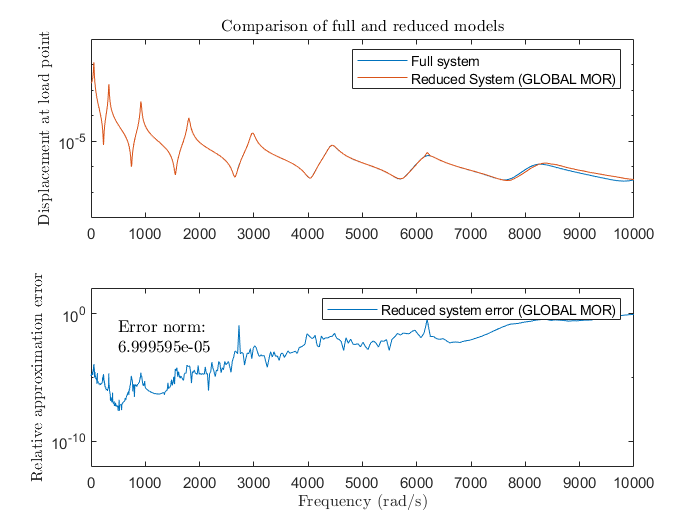
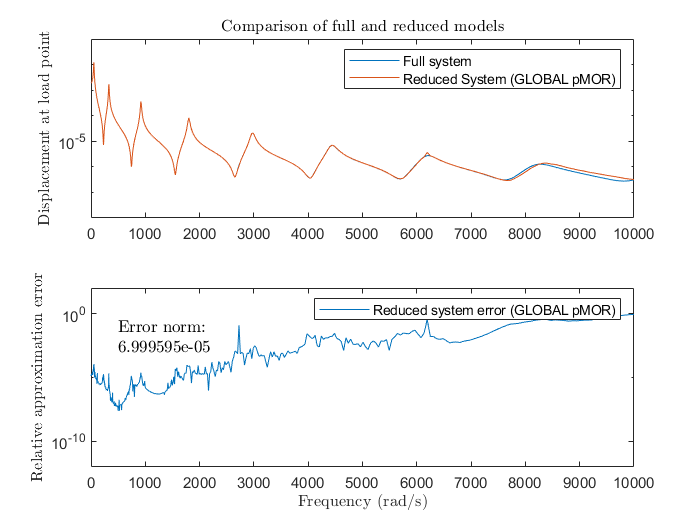
added more plots for changes in height

Changed region(s): [[0.57, 0.0914, 0.87, 0.1829], [0.54, 0.579, 0.87, 0.6095], [0.48, 0.0914, 0.51, 0.1524]]

diff --git a/beam_mor_pmor_H.m b/beam_mor_pmor_H.m
@@ -6,10 +6,11 @@ addpath('soirka')
 %% Inputs
 numSamples = 1000; % number of frequency samples
 numElements = 50; % number of beam FEM elements
-height = 0.01;
+height = 0.5;
+length_beam = 1;
 
 %Create beam model
-[M, D, K, f, C] = fem_beam(1,height,numElements);
+[M, D, K, f, C] = fem_beam(length_beam,height,numElements);
 
 %% Compute full solution
 
@@ -21,6 +22,8 @@ height = 0.01;
 s = 1i*logspace(0,4,numSamples); % frequency sample values
 %Careful with logspace, it might lead to very high values if used
 %incorrectly
+
+
 
 result_full = zeros(1,length(s));
 
@@ -36,7 +39,7 @@ fig = figure('Name','Frequency response using full solution');
 set(fig,'defaulttextinterpreter','latex')
 semilogy(abs(s),abs(result_full))
 xlim([0 10000])
-ylim([1e-8 1e-1])
+ylim([1e-12 1e-0])
 title('Frequency response using full solution')
 ylabel('Displacement at load point')
 xlabel('Frequency (rad/s)')
@@ -93,7 +96,7 @@ fig = figure('Name','Frequency response using SO-IRKA');
 set(fig,'defaulttextinterpreter','latex')
 semilogy(abs(s),abs(result_irka))
 xlim([0 10000])
-ylim([1e-8 1e-1])
+ylim([1e-12 1e-0])
 title('Frequency response using SO-IRKA')
 ylabel('Displacement at load point')
 xlabel('Frequency (rad/s)')
@@ -105,7 +108,7 @@ subplot(2,1,1)
 semilogy(abs(s),abs(result_full),...
     abs(s),abs(result_irka))
 xlim([0 10000])
-ylim([1e-8 1e-1])
+ylim([1e-12 1e-0])
 legend('Full system', 'Reduced System (SO-IRKA)')
 title('Comparison of full and reduced models')
 ylabel('Displacement at load point')
@@ -131,7 +134,9 @@ xlabel('Frequency (rad/s)')
 % Parameter is length, switch to height later
 
 %P = [0.214 0.5 0.75 0.9 1.25]; %original
-P = [0.214 0.3 0.4 0.5 0.6 0.75 0.9 1.25]; 
+%P = [0.214 0.3 0.4 0.5 0.6 0.75 0.9 1.25];
+
+P = [0.02 0.03 0.04 0.05 0.06 0.07 0.08 1.2];
 %For some reason anything below 0.214 as a length does not allow the 
 % SO-IRKA algorithm to function properly.
 
@@ -149,7 +154,7 @@ V = []; %Not sure if this is effective or if preallocating would be better
 for i = 1:k
     
     %Create model matrices for that parameter
-    [M, D, K, f, C] = fem_beam(P(i),height,numElements);
+    [M, D, K, f, C] = fem_beam(length_beam,P(i),numElements);
 
     %Obtain basis matrix for that parameter
     [~, ~, ~, ~, ~, ~, Vr] = SO_IRKA_SISO(K, D, M, f, C, s0, 'os', tol, maxiter);
@@ -181,10 +186,10 @@ V = U*S*Vsd'; % reduced global bases
 
 %Sample use case of global basis
 
-%Compute reduced system matrices for that certain parameter value, 1
+%Compute reduced system matrices for that certain height value, 0.1
 %chosen here
 
-[M, D, K, f, C] = fem_beam(1,height,numElements);
+[M, D, K, f, C] = fem_beam(length_beam,height,numElements);
 
 Mr = V' * M * V;
 Dr = V' * D * V;
@@ -215,8 +220,8 @@ fig = figure('Name','Frequency response using Global pMOR');
 set(fig,'defaulttextinterpreter','latex')
 semilogy(abs(s),abs(result_global))
 xlim([0 10000])
-ylim([1e-8 1e-1])
-title('Frequency response using GLOBAL pMOR')
+ylim([1e-12 1e-0])
+title('Frequency response using Global pMOR')
 ylabel('Displacement at load point')
 xlabel('Frequency (rad/s)')
 
@@ -229,8 +234,8 @@ semilogy(abs(s),abs(result_irka), 'LineWidth', 4)
 hold on
 semilogy(abs(s),abs(result_global), 'LineWidth', 2)
 xlim([0 10000])
-ylim([1e-8 1e-1])
-legend('Full', 'SO-IRKA', 'GLOBAL pMOR')
+ylim([1e-12 1e-0])
+legend('Full', 'SO-IRKA', 'Global pMOR')
 title('Frequency response comparison including Global pMOR')
 ylabel('Displacement at load point')
 xlabel('Frequency (rad/s)')
@@ -242,7 +247,7 @@ subplot(2,1,1)
 semilogy(abs(s),abs(result_full),...
     abs(s),abs(result_global))
 xlim([0 10000])
-ylim([1e-8 1e-1])
+ylim([1e-12 1e-0])
 legend('Full system', 'Reduced System (GLOBAL pMOR)')
 title('Comparison of full and reduced models')
 ylabel('Displacement at load point')
@@ -270,7 +275,8 @@ xlabel('Frequency (rad/s)')
 %Parameter is length, switch to height later
 
 %P = [0.214 0.5 0.75 0.9 1.25];
-P = [0.1 0.214 0.3 0.4 0.5 0.6 0.75 0.9 1.25]; 
+%P = [0.1 0.214 0.3 0.4 0.5 0.6 0.75 0.9 1.25];
+P = [0.02 0.03 0.04 0.05 0.06 0.07 0.08 1.2];
 %For some reason anything below 0.214 as a length does not allow the 
 % SO-IRKA algorithm to function properly.
 
@@ -296,7 +302,7 @@ Cp = [];
 for i = 1:k
     
     %Create model matrices for that parameter
-    [M, D, K, f, C] = fem_beam(P(i),height,numElements);
+    [M, D, K, f, C] = fem_beam(length_beam,P(i),numElements);
 
     %Obtain basis matrix and reduced system matrices for that parameter
     [Kr, Dr, Mr, fr, Cr, sr, Vr] = SO_IRKA_SISO(K, D, M, f, C, s0, 'os', tol, maxiter);
@@ -353,7 +359,7 @@ Kf = zeros(r);
 Df = zeros(r);
 ff = zeros(r,1);
 Cf = zeros(1,r);
-p = 1.0; % parameter for which interpolation is required, here L = 1m
+p = height; % parameter for which interpolation is required, here H = 0.1m
 numParam = length(P);
 
 %Use cubic splines: interpolate between the reduced and transformed
@@ -415,7 +421,7 @@ fig = figure('Name','Frequency response using local pMOR');
 set(fig,'defaulttextinterpreter','latex')
 semilogy(abs(s),abs(result_local))
 xlim([0 10000])
-ylim([1e-8 1e-1])
+ylim([1e-12 1e-0])
 title('Frequency response using Local pMOR')
 ylabel('Displacement at load point')
 xlabel('Frequency (rad/s)')
@@ -431,8 +437,8 @@ semilogy(abs(s),abs(result_global),'LineWidth', 3)
 hold on
 semilogy(abs(s),abs(result_local),'LineWidth', 1)
 xlim([0 10000])
-ylim([1e-8 1e-1])
-legend('Full', 'SO-IRKA', 'GLOBAL pMOR', 'LOCAL pMOR')
+ylim([1e-12 1e-0])
+legend('Full', 'SO-IRKA', 'Global pMOR', 'Local pMOR')
 title('Frequency response comparison inc. Local pMOR')
 ylabel('Displacement at load point')
 xlabel('Frequency (rad/s)')
@@ -448,7 +454,7 @@ subplot(2,1,1)
 semilogy(abs(s),abs(result_full),...
     abs(s),abs(result_local))
 xlim([0 10000])
-ylim([1e-8 1e-1])
+ylim([1e-12 1e-0])
 legend('Full system', 'Reduced System (LOCAL pMOR)')
 title('Comparison of full and reduced models')
 ylabel('Displacement at load point')
@@ -615,7 +621,7 @@ xlabel('Frequency (rad/s)')
 % % set(fig,'defaulttextinterpreter','latex')
 % % semilogy(abs(s),abs(result_local))
 % % xlim([0 10000])
-% % ylim([1e-8 1e-1])
+% % ylim([1e-12 1e-0])
 % % title('Local pMOR')
 % % ylabel('Displacement at load point')
 % % xlabel('Frequency (rad/s)')
@@ -631,8 +637,8 @@ xlabel('Frequency (rad/s)')
 % % hold on
 % % semilogy(abs(s),abs(result_local),'LineWidth', 1)
 % % xlim([0 10000])
-% % ylim([1e-8 1e-1])
-% % legend('Full', 'SO-IRKA', 'GLOBAL pMOR', 'LOCAL pMOR')
+% % ylim([1e-12 1e-0])
+% % legend('Full', 'SO-IRKA', 'Global pMOR', 'LOCAL pMOR')
 % % title('Frequency response comparison inc. local pMOR')
 % % ylabel('Displacement at load point')
 % % xlabel('Frequency (rad/s)')
@@ -648,7 +654,7 @@ xlabel('Frequency (rad/s)')
 % % semilogy(abs(s),abs(result_full),...
 % %     abs(s),abs(result_local))
 % % xlim([0 10000])
-% % ylim([1e-8 1e-1])
+% % ylim([1e-12 1e-0])
 % % legend('Full system', 'Reduced System (LOCAL pMOR)')
 % % title('Comparison of full and reduced models')
 % % ylabel('Displacement at load point')
@@ -656,7 +662,7 @@ xlabel('Frequency (rad/s)')
 % % semilogy(abs(s),abs(error_global))
 % % xlim([0 10000])
 % % ylim([1e-12 100])
-% % legend('Reduced system error (GLOBAL pMOR)',...
+% % legend('Reduced system error (GLOBAL MOR)',...
 % %     'Location','northeast')
 % % ylabel('Relative approximation error')
 % % xlabel('Frequency (rad/s)')
@@ -672,7 +678,7 @@ xlabel('Frequency (rad/s)')
 % end
 % 
 % xlim([0 10000])
-% ylim([1e-8 1e-1])
+% ylim([1e-12 1e-0])
 % %S = sprintf('%.2f',p(1:length(p)));
 % S = sprintf('L = %0.2f*', p(1:length(p)));
 % C = regexp(S, '*', 'split');
